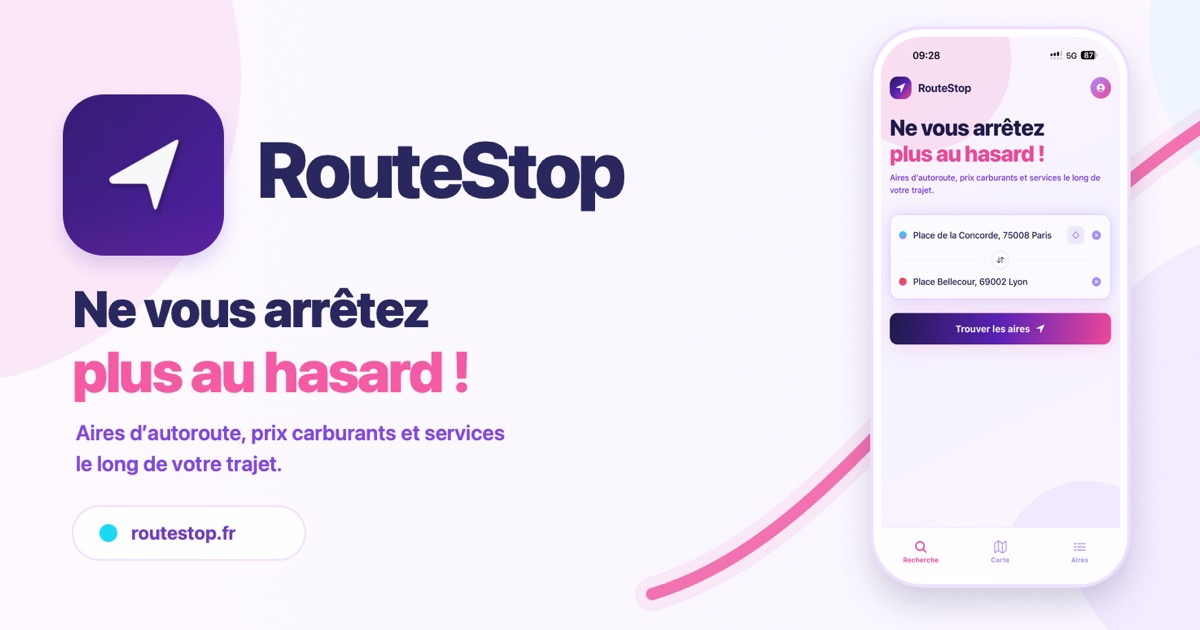
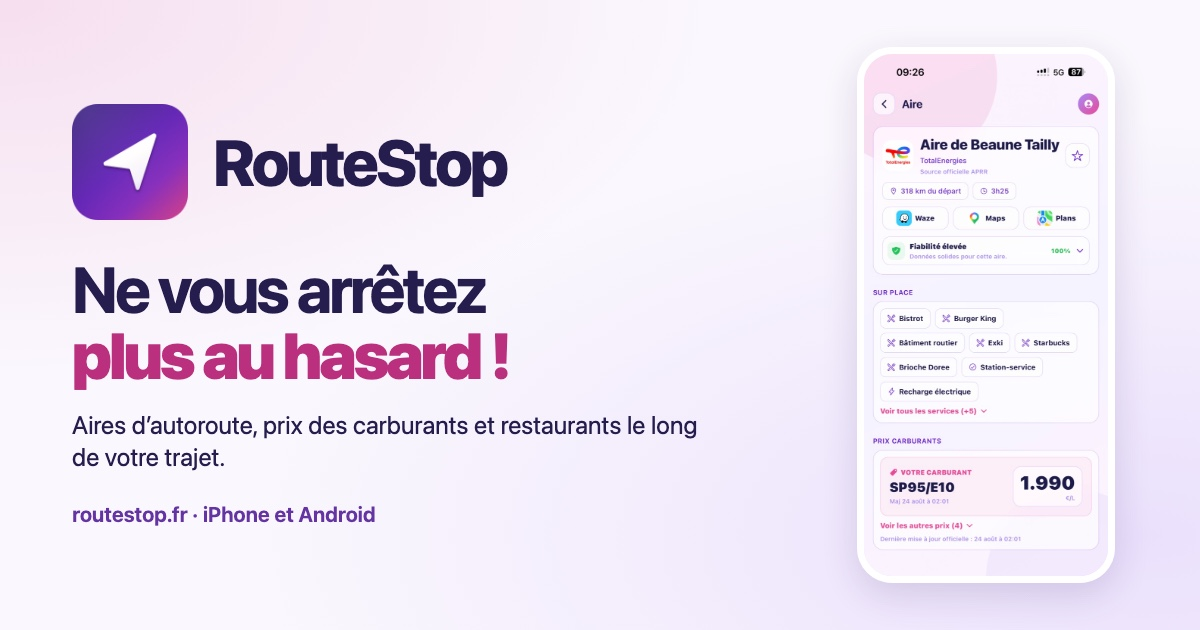
Déployer la flèche RouteStop en relief sur le site, l'admin et le portail studio

diff --git a/index.html b/index.html
@@ -10,13 +10,13 @@
   <meta property="og:description" content="RouteStop est disponible gratuitement sur iPhone et Android : aires d’autoroute, prix carburants, restaurants et services utiles le long de votre trajet." />
   <meta property="og:type" content="website" />
   <meta property="og:url" content="https://routestop.fr/" />
-  <meta property="og:image" content="https://routestop.fr/assets/social-card.jpg" />
+  <meta property="og:image" content="https://routestop.fr/assets/social-card.jpg?v=relief-a" />
   <meta property="og:image:width" content="1200" />
   <meta property="og:image:height" content="630" />
   <meta property="og:locale" content="fr_FR" />
   <meta name="twitter:card" content="summary_large_image" />
   <link rel="canonical" href="https://routestop.fr/" />
-  <link rel="icon" type="image/png" href="assets/icon.png" />
+  <link rel="icon" type="image/png" href="assets/icon.png?v=relief-a" />
   <link rel="stylesheet" href="site.css?v=20261011-android" />
   <script type="application/ld+json">
     {
@@ -42,7 +42,7 @@
   <header class="topbar">
     <nav class="shell nav" aria-label="Navigation principale">
       <a class="brand" href="#top" aria-label="RouteStop, accueil">
-        <img src="assets/icon.png" alt="" width="48" height="48" />
+        <img src="assets/icon.png?v=relief-a" alt="" width="48" height="48" />
         <span>RouteStop</span>
       </a>
       <div class="nav-links">
@@ -238,7 +238,7 @@
 
     <section class="launch" id="lancement">
       <div class="shell launch-card">
-        <img src="assets/icon.png" alt="" width="76" height="76" />
+        <img src="assets/icon.png?v=relief-a" alt="" width="76" height="76" />
         <p class="eyebrow">Disponible dès maintenant sur iPhone et Android</p>
         <h2>La prochaine pause commence avant la sortie.</h2>
         <p>Téléchargez gratuitement RouteStop sur l’App Store ou Google Play et choisissez votre prochaine aire avant de quitter l’autoroute.</p>
@@ -258,7 +258,7 @@
   <footer>
     <div class="shell footer-grid">
       <div>
-        <a class="brand" href="#top"><img src="assets/icon.png" alt="" width="42" height="42" /><span>RouteStop</span></a>
+        <a class="brand" href="#top"><img src="assets/icon.png?v=relief-a" alt="" width="42" height="42" /><span>RouteStop</span></a>
         <p>Ne manipulez jamais l’application en conduisant. La signalisation routière reste prioritaire.</p>
       </div>
       <div class="footer-links">

diff --git a/auth-action.html b/auth-action.html
@@ -5,16 +5,15 @@
     <meta name="viewport" content="width=device-width,initial-scale=1">
     <meta name="robots" content="noindex,nofollow,noarchive">
     <meta name="referrer" content="no-referrer">
-    <meta http-equiv="Content-Security-Policy" content="default-src 'none'; style-src 'unsafe-inline'; script-src 'unsafe-inline'; base-uri 'none'; object-src 'none'">
+    <meta http-equiv="Content-Security-Policy" content="default-src 'none'; img-src 'self'; style-src 'unsafe-inline'; script-src 'unsafe-inline'; base-uri 'none'; object-src 'none'">
     <title>RouteStop - Confirmation</title>
+    <link rel="icon" href="assets/icon.png?v=relief-a">
     <style>
       :root { color-scheme: light dark; font-family: -apple-system, BlinkMacSystemFont, "Segoe UI", sans-serif; }
       * { box-sizing: border-box; }
       body { margin: 0; min-height: 100vh; display: grid; place-items: center; padding: 24px; color: #201650; background: #f8f4ff; }
       main { width: min(100%, 520px); padding: 32px; border: 1px solid #e1d2ff; border-radius: 18px; background: rgba(255,255,255,.94); box-shadow: 0 18px 54px rgba(74,34,146,.14); }
       .brand { display: flex; align-items: center; gap: 12px; margin-bottom: 28px; font-size: 23px; font-weight: 800; }
-      .mark { width: 44px; height: 44px; display: grid; place-items: center; border-radius: 13px; color: #fff; background: linear-gradient(145deg,#2d176d,#7c2be0 62%,#ea3d9c); }
-      .mark span { display: block; transform: rotate(-38deg); font-size: 25px; }
       h1 { margin: 0 0 12px; font-size: 28px; line-height: 1.2; }
       p { margin: 0 0 24px; color: #625981; font-size: 16px; line-height: 1.55; }
       a { min-height: 52px; display: flex; align-items: center; justify-content: center; padding: 12px 20px; border-radius: 13px; color: #fff; background: linear-gradient(120deg,#2b1a69,#7b26dc,#e63a99); text-decoration: none; font-size: 16px; font-weight: 750; }
@@ -30,7 +29,7 @@
   </head>
   <body>
     <main>
-      <div class="brand"><span class="mark" aria-hidden="true"><span>➤</span></span>RouteStop</div>
+      <div class="brand"><img src="assets/icon.png?v=relief-a" alt="" width="44" height="44">RouteStop</div>
       <h1 id="title">Vérification en cours</h1>
       <p id="description">Nous vérifions que ce lien provient bien de RouteStop.</p>
       <a id="continue" aria-disabled="true">Continuer</a>

diff --git a/design/share-card.html b/design/share-card.html
@@ -1,0 +1,9 @@
+<!doctype html>
+<html lang="fr"><meta charset="utf-8"><title>Aperçu de partage RouteStop</title>
+<style>
+*{box-sizing:border-box}body{margin:0;width:1200px;height:630px;overflow:hidden;background:radial-gradient(ellipse at 0 0,#f6dfef,transparent 42%),radial-gradient(ellipse at 95% 85%,#eae0fc,transparent 55%),#faf7fd;color:#241d4e;font-family:-apple-system,BlinkMacSystemFont,Arial,sans-serif}
+main{height:100%;display:flex;align-items:center;gap:65px;padding:48px 72px}.copy{width:720px;flex:none}.brand{display:flex;gap:25px;align-items:center;font-size:64px;font-weight:800;letter-spacing:-3px}.brand img{width:116px;height:116px}
+h1{line-height:1.03;font-size:64px;letter-spacing:-2.8px;margin:37px 0 20px}strong{color:#bb307e}p{font-size:25px;line-height:1.3;max-width:650px;margin:0 0 28px}.domain{font-size:21px;color:#6334a2;font-weight:650}
+aside{width:258px;height:536px;flex:none;overflow:hidden;border-radius:35px;border:7px solid white;box-shadow:0 12px 35px #40276328}aside img{width:100%;height:100%;display:block;object-fit:cover;object-position:top}
+</style>
+<main><section class="copy"><div class="brand"><img src="../assets/icon.png" alt="">RouteStop</div><h1>Ne vous arrêtez<br><strong>plus au hasard&nbsp;!</strong></h1><p>Aires d’autoroute, prix des carburants et restaurants le long de votre trajet.</p><span class="domain">routestop.fr · iPhone et Android</span></section><aside><img src="../assets/app-detail.jpg" alt="Fiche d’une aire dans RouteStop"></aside></main></html>

diff --git a/admin/index.html b/admin/index.html
@@ -10,14 +10,14 @@
       content="default-src 'self' file:; script-src 'self' file:; style-src 'self' file: 'unsafe-inline'; connect-src https://*.supabase.co wss://*.supabase.co; img-src 'self' file: data:; object-src 'none'; base-uri 'none'; form-action 'self'; frame-ancestors 'none'"
     />
     <title>RouteStop Admin</title>
-    <link rel="icon" type="image/png" href="../assets/icon.png" />
+    <link rel="icon" type="image/png" href="../assets/icon.png?v=relief-a" />
     <link rel="stylesheet" href="./styles-v2.css?v=20261114-downloads-known" />
     <link rel="stylesheet" href="./area-review.css?v=20261027-aires" />
   </head>
   <body>
     <header class="topbar">
       <div class="brand">
-        <img class="brand-mark" src="../assets/icon.png" alt="" />
+        <img class="brand-mark" src="../assets/icon.png?v=relief-a" alt="" />
         <div>
           <p class="eyebrow">Back-office</p>
           <h1>RouteStop Admin</h1>

diff --git a/confidentialite.html b/confidentialite.html
@@ -9,7 +9,7 @@
     name="description"
     content="Politique de confidentialité de RouteStop : données, localisation, statistiques, droits et suppression du compte."
   />
-  <link rel="icon" href="assets/icon.png" />
+  <link rel="icon" href="assets/icon.png?v=relief-a" />
   <link rel="stylesheet" href="legal.css" />
 <link rel="stylesheet" href="studio-signature-f7958e556f17.css">
 </head>
@@ -18,7 +18,7 @@
   <header class="shell">
     <nav class="topbar" aria-label="Navigation principale">
       <a class="brand" href="index.html">
-        <img src="assets/icon.png" alt="" />
+        <img src="assets/icon.png?v=relief-a" alt="" />
         RouteStop
       </a>
       <div class="nav">

diff --git a/suppression-compte.html b/suppression-compte.html
@@ -9,7 +9,7 @@
     name="description"
     content="Demander la suppression définitive d’un compte RouteStop et des données personnelles associées."
   />
-  <link rel="icon" href="assets/icon.png" />
+  <link rel="icon" href="assets/icon.png?v=relief-a" />
   <link rel="stylesheet" href="legal.css" />
 <link rel="stylesheet" href="studio-signature-f7958e556f17.css">
 </head>
@@ -18,7 +18,7 @@
   <header class="shell">
     <nav class="topbar" aria-label="Navigation principale">
       <a class="brand" href="index.html">
-        <img src="assets/icon.png" alt="" />
+        <img src="assets/icon.png?v=relief-a" alt="" />
         RouteStop
       </a>
       <div class="nav">

diff --git a/support.html b/support.html
@@ -9,7 +9,7 @@
     name="description"
     content="Aide RouteStop : compte, mot de passe, suppression, données d’aires et navigation."
   />
-  <link rel="icon" href="assets/icon.png" />
+  <link rel="icon" href="assets/icon.png?v=relief-a" />
   <link rel="stylesheet" href="legal.css" />
 <link rel="stylesheet" href="studio-signature-f7958e556f17.css">
 </head>
@@ -18,7 +18,7 @@
   <header class="shell">
     <nav class="topbar" aria-label="Navigation principale">
       <a class="brand" href="index.html">
-        <img src="assets/icon.png" alt="" />
+        <img src="assets/icon.png?v=relief-a" alt="" />
         RouteStop
       </a>
       <div class="nav">

diff --git a/studio-admin/index.html b/studio-admin/index.html
@@ -44,7 +44,7 @@
     <div class="application-grid" data-workspace hidden>
       <section class="application-card routestop" data-route hidden>
         <div class="app-heading">
-          <img class="app-icon" src="/assets/icon.png" alt="" width="80" height="80">
+          <img class="app-icon" src="/assets/icon.png?v=relief-a" alt="" width="80" height="80">
           <h2>RouteStop</h2>
         </div>
         <p>Aires et services, signalements et suivi de l’application.</p>
